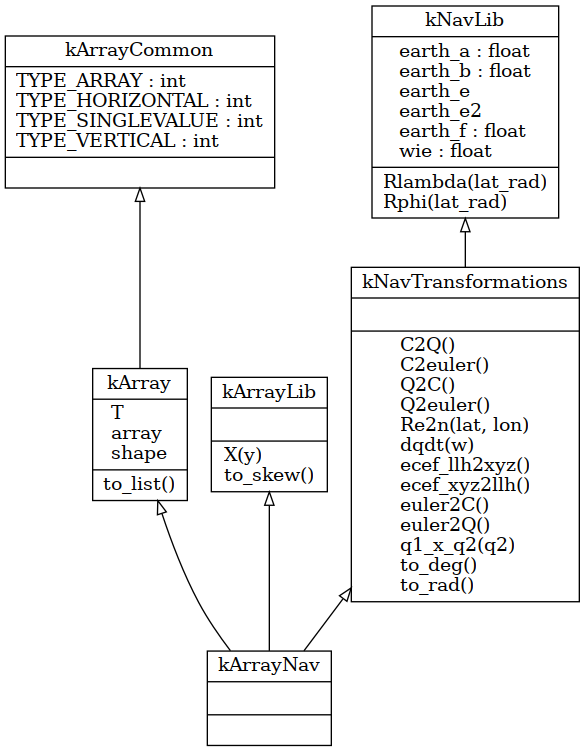
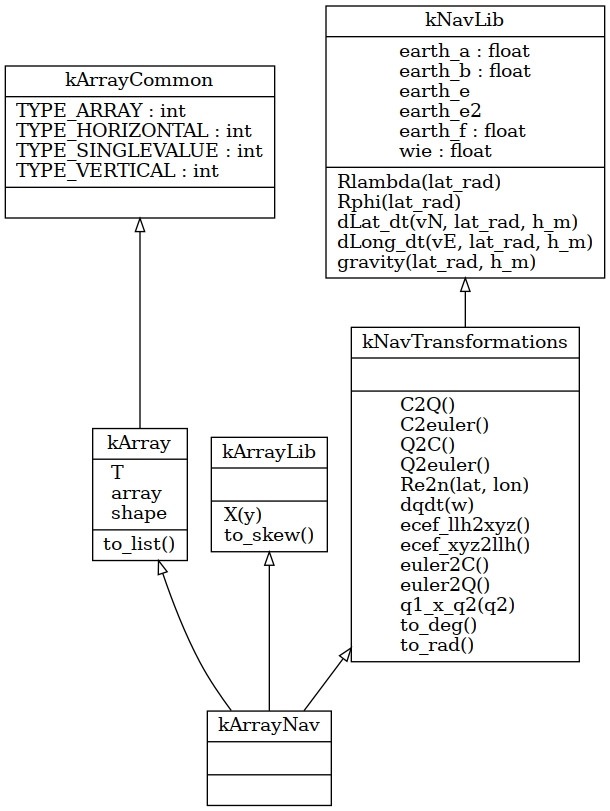
extension: lat/long derivatives + documentation

Changed region(s): [[0.0, 0.0, 1.0, 1.0]]

diff --git a/karraynav/kArrayNav.py b/karraynav/kArrayNav.py
@@ -92,6 +92,30 @@ class kNavLib:
 
         return gamma_lat_h
 
+    def dLat_dt(self, vN, lat_rad, h_m):
+        """
+        Calculates the derivative of the geografic latitude.
+
+        : parameter : vN      : [m/s] velocity-north
+        : parameter : lat_rad : [rad] latitude
+        : parameter : h_m     : [m]   altitude above sea level
+        : return    : d(latitude)/dt : [rad/s]
+        """
+
+        return vN / (self.Rlambda(lat_rad) + h_m)
+
+    def dLong_dt(self, vE, lat_rad, h_m):
+        """
+        Calculates the derivative of the longitude.
+
+        : parameter : vE      : [m/s] velocity-east
+        : parameter : lat_rad : [rad] latitude
+        : parameter : h_m     : [m]   altitude above sea level
+        : return    : d(longitude)/dt : [rad/s]
+        """
+
+        return vE / (cos(lat_rad) * (self.Rphi(lat_rad) + h_m))
+
 #>>--<<..>>--<<..>>--<<..>>--<<..>>--<<..>>--<<..>>--<<..>>
 class kNavTransformations(kNavLib):
 
